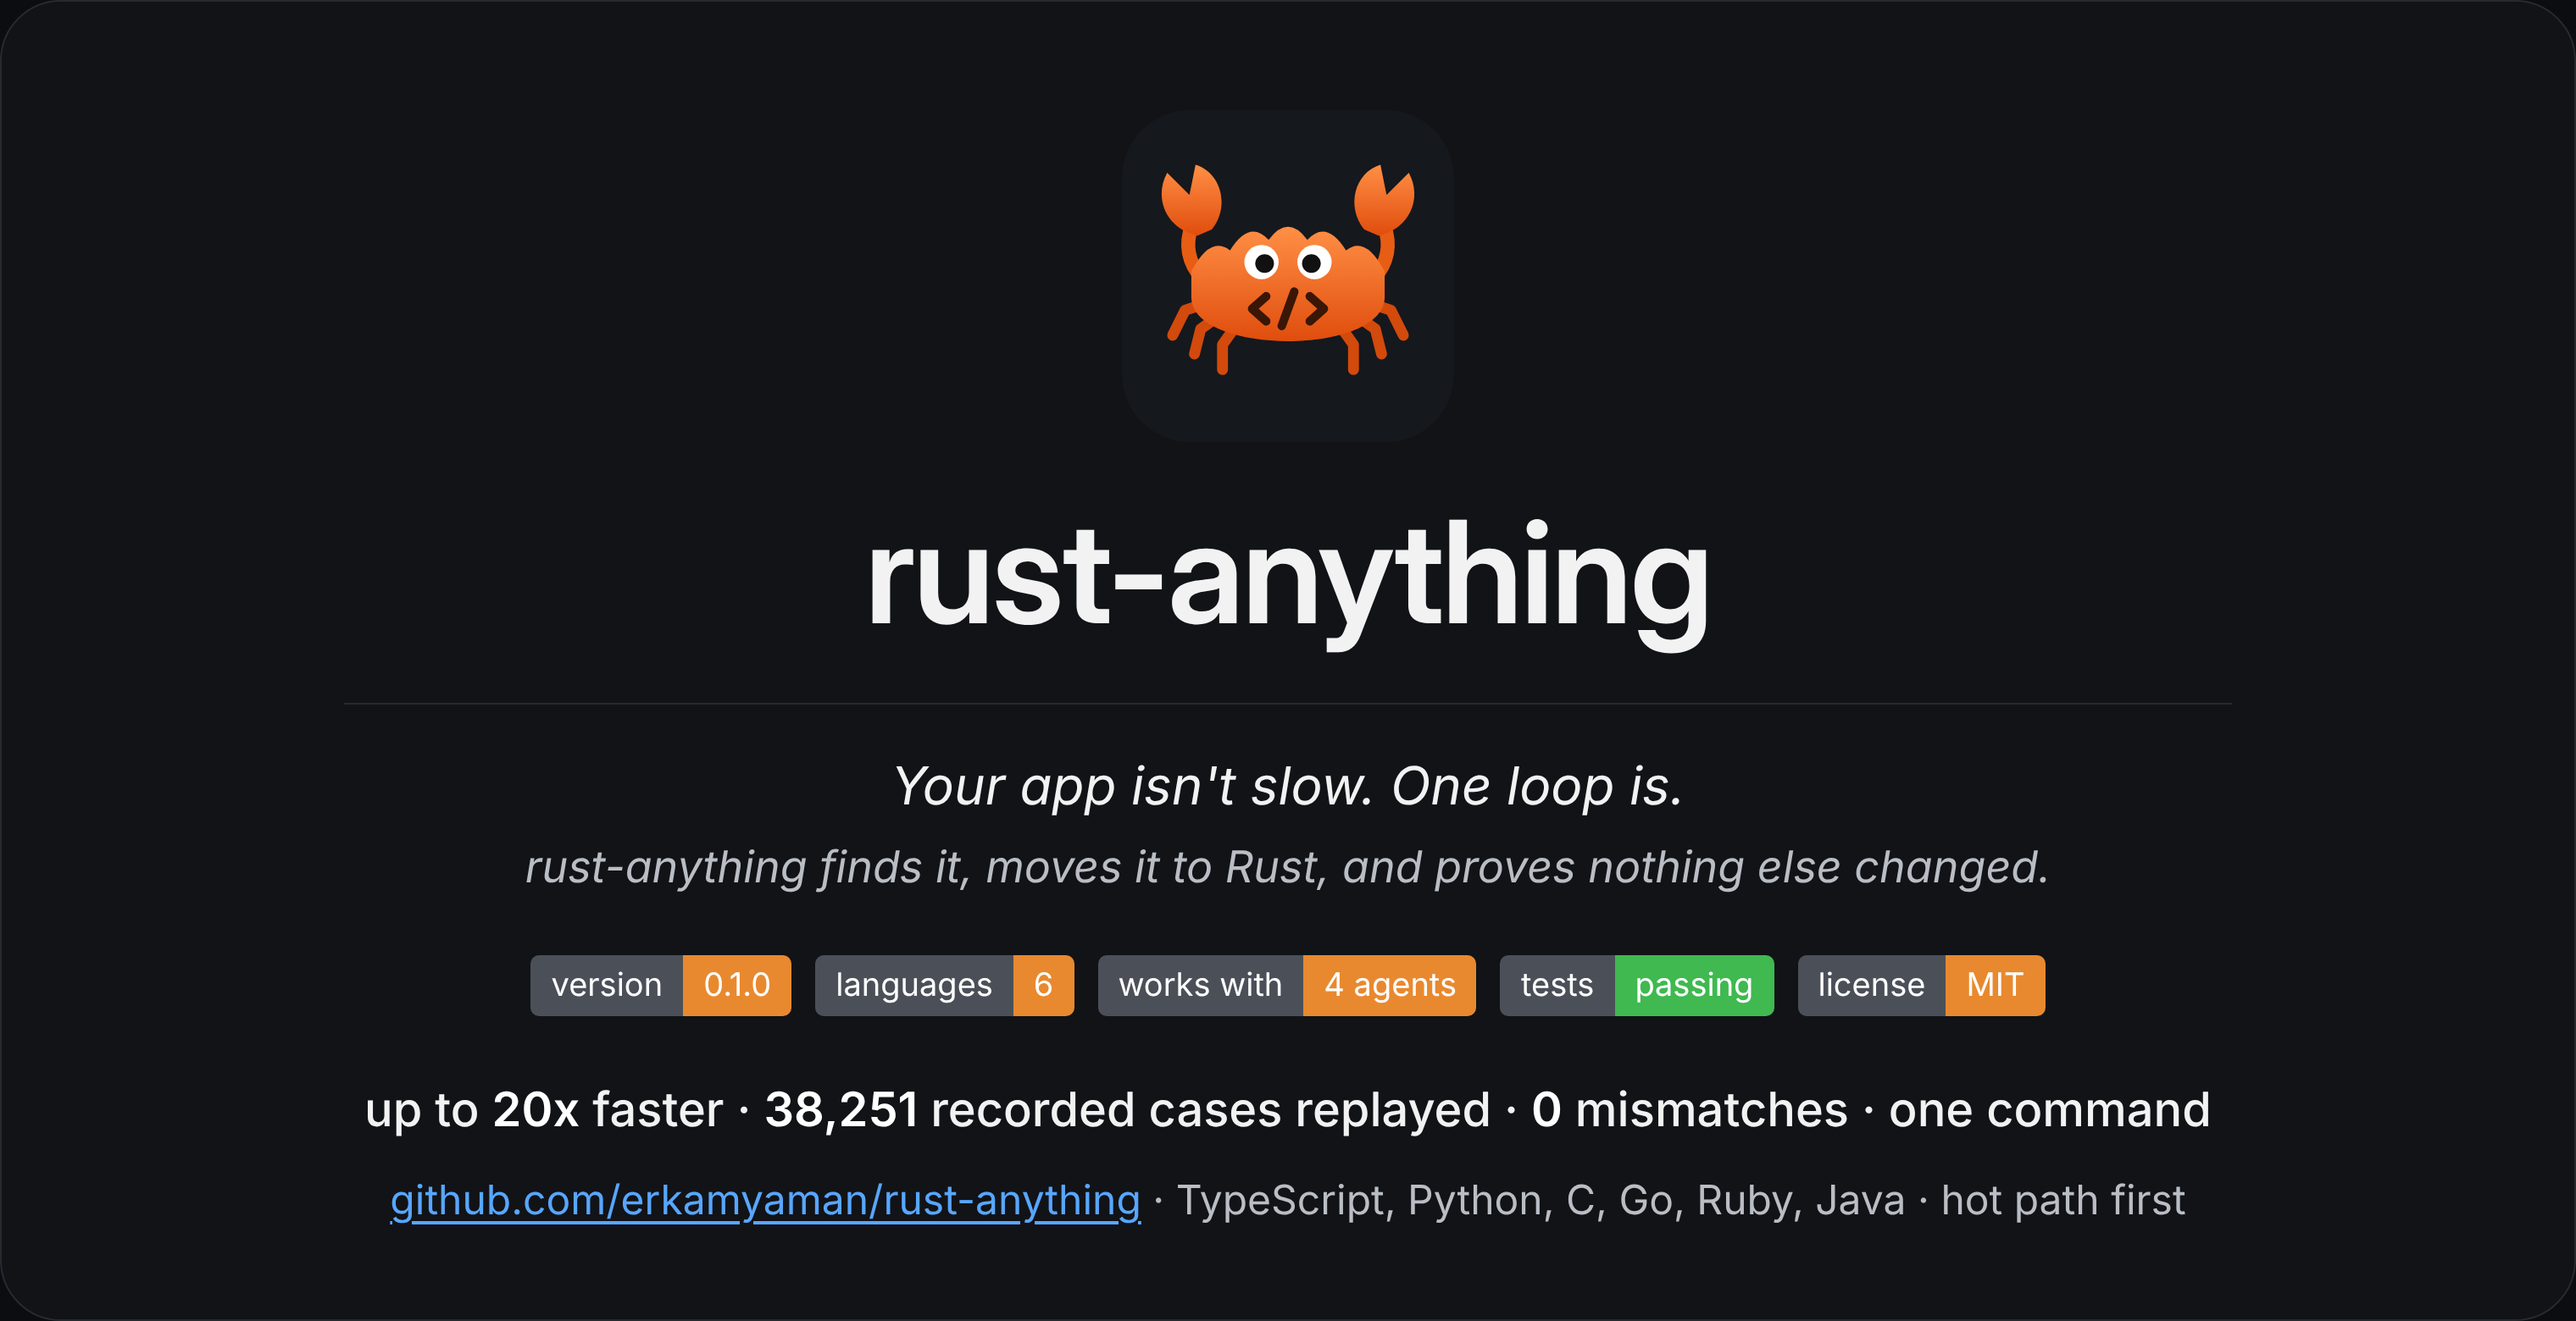
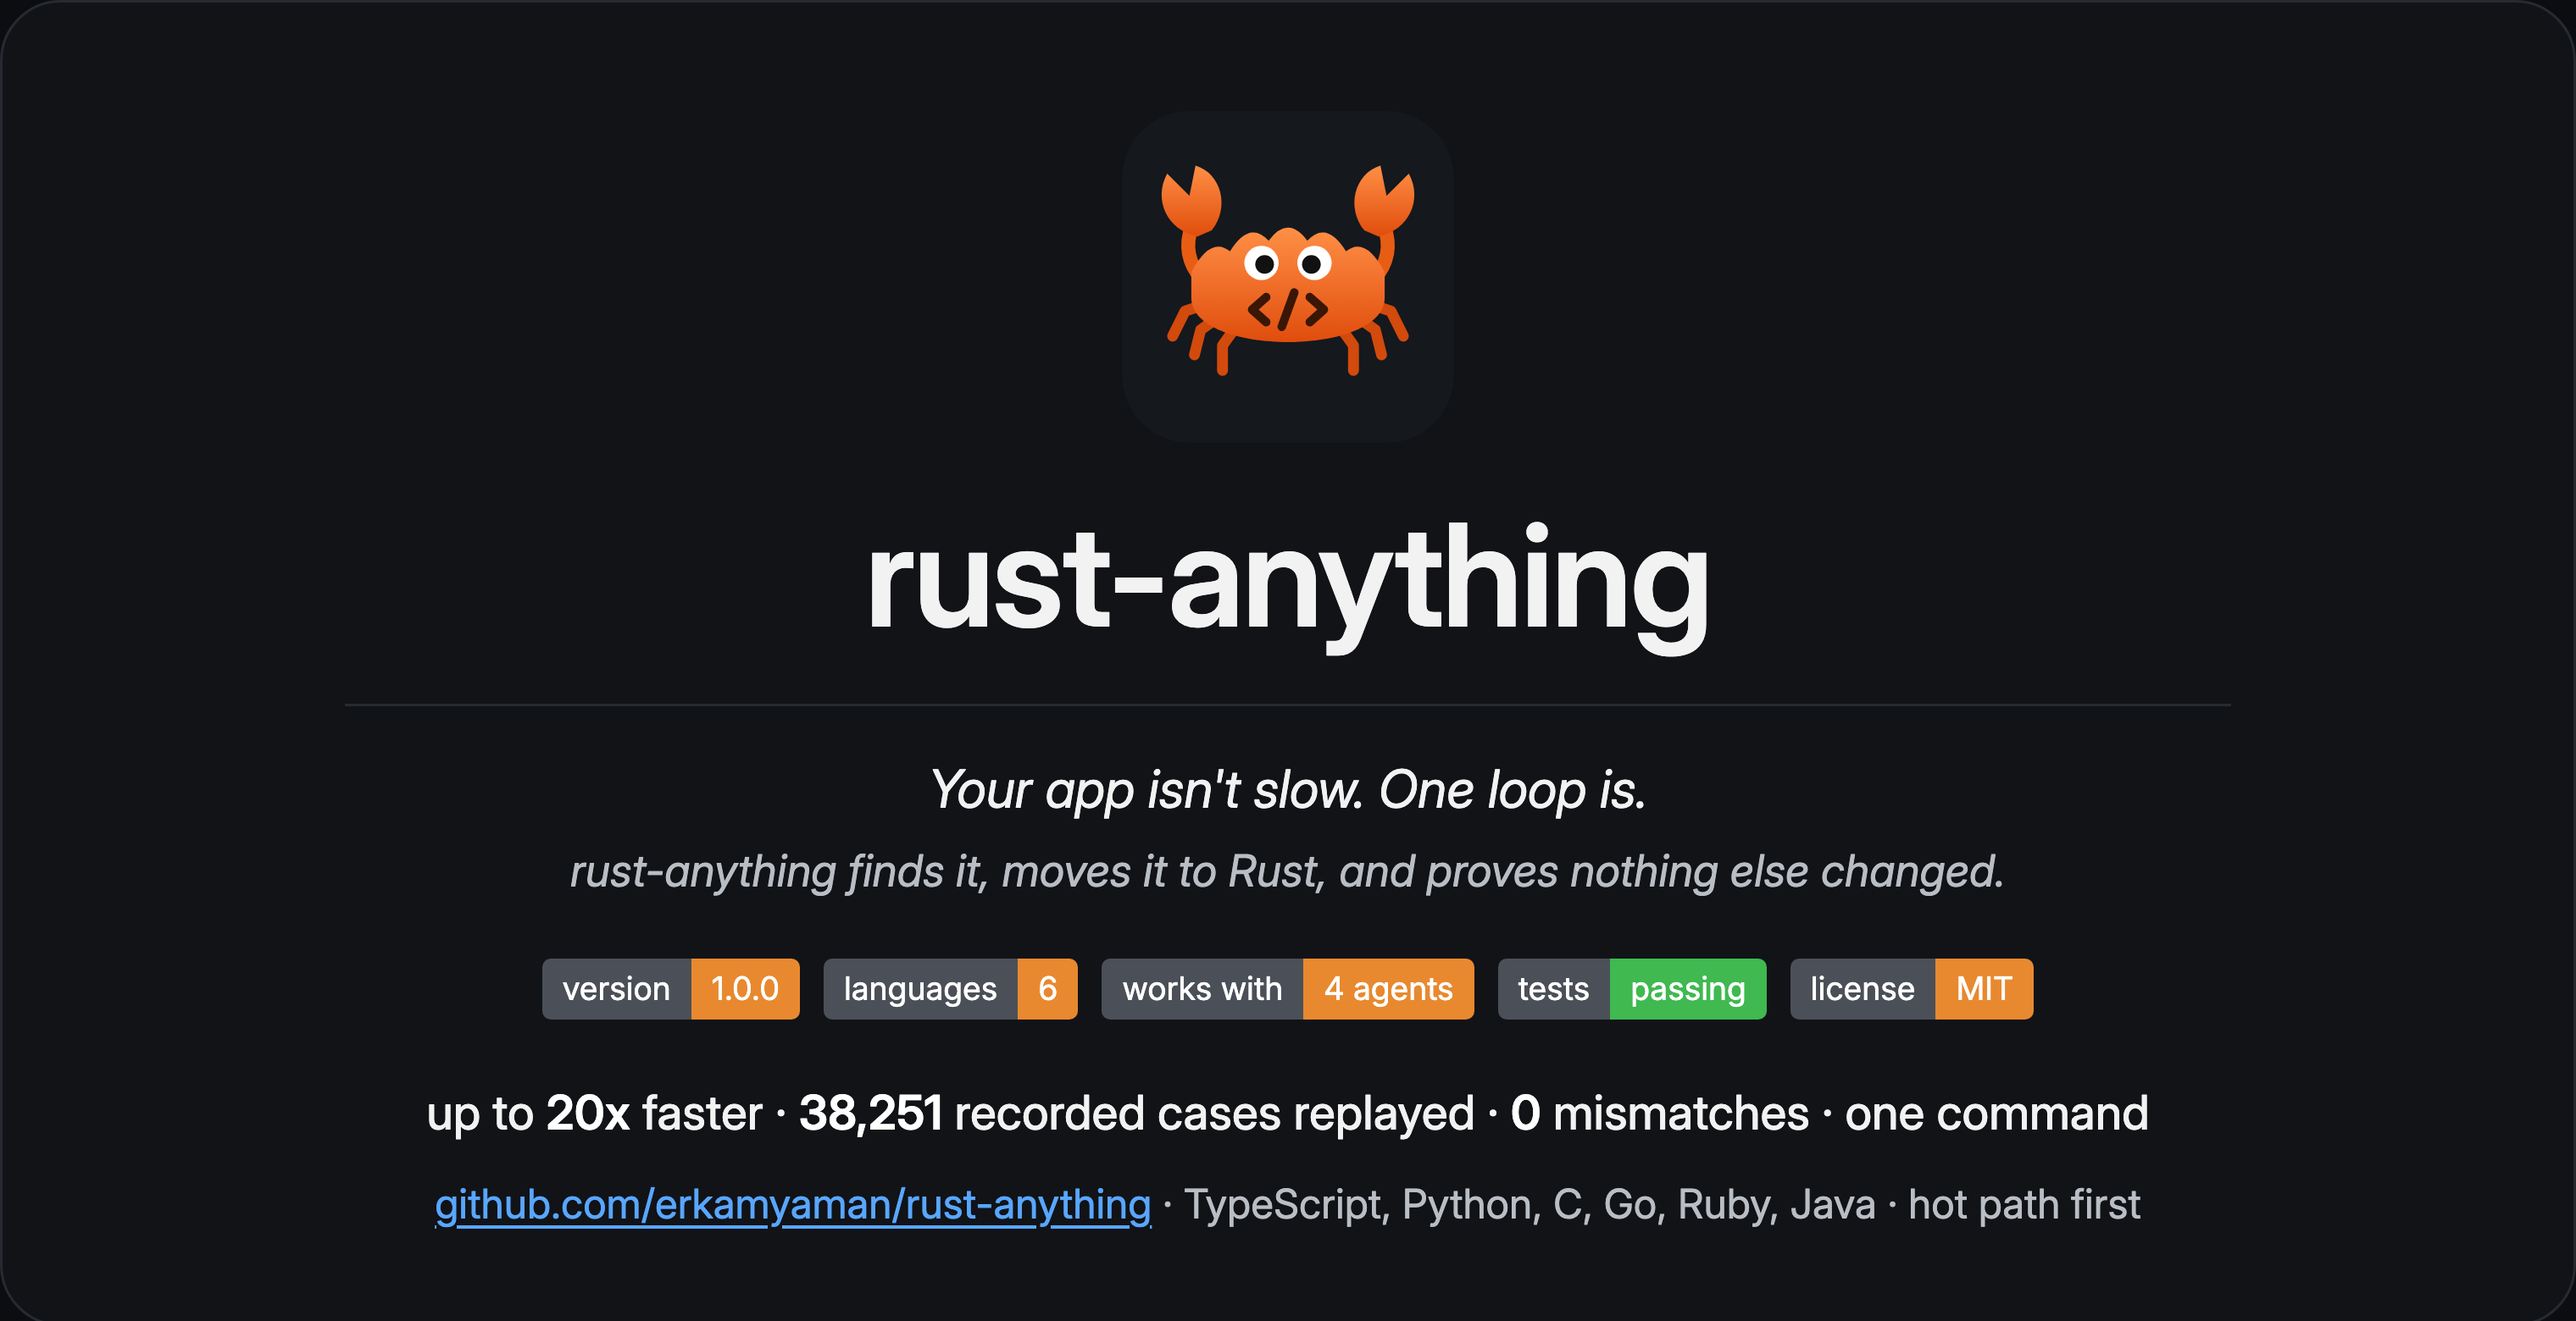
chore: release 1.0.0
- Version 1.0.0 in Cargo.toml, the Claude Code plugin and the README header image.
- Release workflow: binaries for Linux, macOS and Windows attached to a GitHub release with
  SHA256SUMS and the CHANGELOG notes; npm packages published with trusted publishing.
- npm: rust-anything picks a prebuilt binary from one of five platform packages.

diff --git a/npm/rust-anything/bin/rust-anything.js b/npm/rust-anything/bin/rust-anything.js
@@ -1,0 +1,26 @@
+#!/usr/bin/env node
+'use strict'
+const { spawnSync } = require('node:child_process')
+
+const key = `${process.platform}-${process.arch}`
+const exe = process.platform === 'win32' ? 'rust-anything.exe' : 'rust-anything'
+let bin
+try {
+  bin = require.resolve(`rust-anything-${key}/bin/${exe}`)
+} catch {
+  console.error(
+    `rust-anything: no prebuilt binary for ${key}.\n` +
+      'Install it with Cargo instead: cargo install --git https://github.com/erkamyaman/rust-anything',
+  )
+  process.exit(1)
+}
+
+const result = spawnSync(bin, process.argv.slice(2), { stdio: 'inherit' })
+if (result.error) {
+  console.error(`rust-anything: ${result.error.message}`)
+  process.exit(1)
+}
+if (result.signal) {
+  process.kill(process.pid, result.signal)
+}
+process.exit(result.status ?? 1)

diff --git a/docs/assets/hero.html b/docs/assets/hero.html
@@ -63,7 +63,7 @@
     <p class="tagline">Your app isn't slow. One loop is.</p>
     <p class="sub">rust-anything finds it, moves it to Rust, and proves nothing else changed.</p>
     <div class="badges">
-      <div class="badge"><span class="k">version</span><span class="v">0.1.0</span></div>
+      <div class="badge"><span class="k">version</span><span class="v">1.0.0</span></div>
       <div class="badge"><span class="k">languages</span><span class="v">6</span></div>
       <div class="badge"><span class="k">works with</span><span class="v">4 agents</span></div>
       <div class="badge"><span class="k">tests</span><span class="v ok">passing</span></div>

diff --git a/README.md b/README.md
@@ -38,9 +38,12 @@ then `rust-anything setup`. Tell me when to restart you.
 Or yourself:
 
 ```sh
-cargo install --git https://github.com/erkamyaman/rust-anything
+npm install -g rust-anything  # prebuilt binary for macOS, Linux and Windows
+# or: cargo install --git https://github.com/erkamyaman/rust-anything
 rust-anything setup           # registers it with Claude Code, Codex, Cursor and Gemini CLI
 ```
+
+Prebuilt binaries are also attached to each [GitHub release](https://github.com/erkamyaman/rust-anything/releases).
 
 In Claude Code you can also install it as a plugin (the MCP server and the skill; the CLI above
 must be on your `PATH`):
@@ -309,9 +312,11 @@ Design choices and their reasons: [DECISIONS.md](./DECISIONS.md).
 ## Update or remove
 
 ```sh
-cargo install --git https://github.com/erkamyaman/rust-anything --force   # update
+npm install -g rust-anything@latest                                       # update (npm)
+cargo install --git https://github.com/erkamyaman/rust-anything --force   # update (Cargo)
 rust-anything setup                                                       # refresh agent settings
-rust-anything setup --remove && cargo uninstall rust-anything             # remove
+rust-anything setup --remove && npm uninstall -g rust-anything            # remove (npm)
+rust-anything setup --remove && cargo uninstall rust-anything             # remove (Cargo)
 ```
 
 `setup --remove` takes out only rust-anything's entries; the copies it saved

diff --git a/CHANGELOG.md b/CHANGELOG.md
@@ -1,6 +1,6 @@
 # Changelog
 
-## 0.1.0 (unreleased)
+## 1.0.0 (2026-11-16)
 
 First version: the full loop for TypeScript/JavaScript, Python, C, Go, Ruby and Java.
 
@@ -34,3 +34,5 @@ First version: the full loop for TypeScript/JavaScript, Python, C, Go, Ruby and 
   Gemini CLI, keeping other settings and backing up each file it changes; `--remove` and
   `--dry-run`.
 - `mcp`: every step as an MCP tool; agent skill in `skills/rust-anything`.
+- Install with `npm install -g rust-anything` (prebuilt binaries for macOS, Linux and Windows) or
+  from the binaries attached to the GitHub release.
